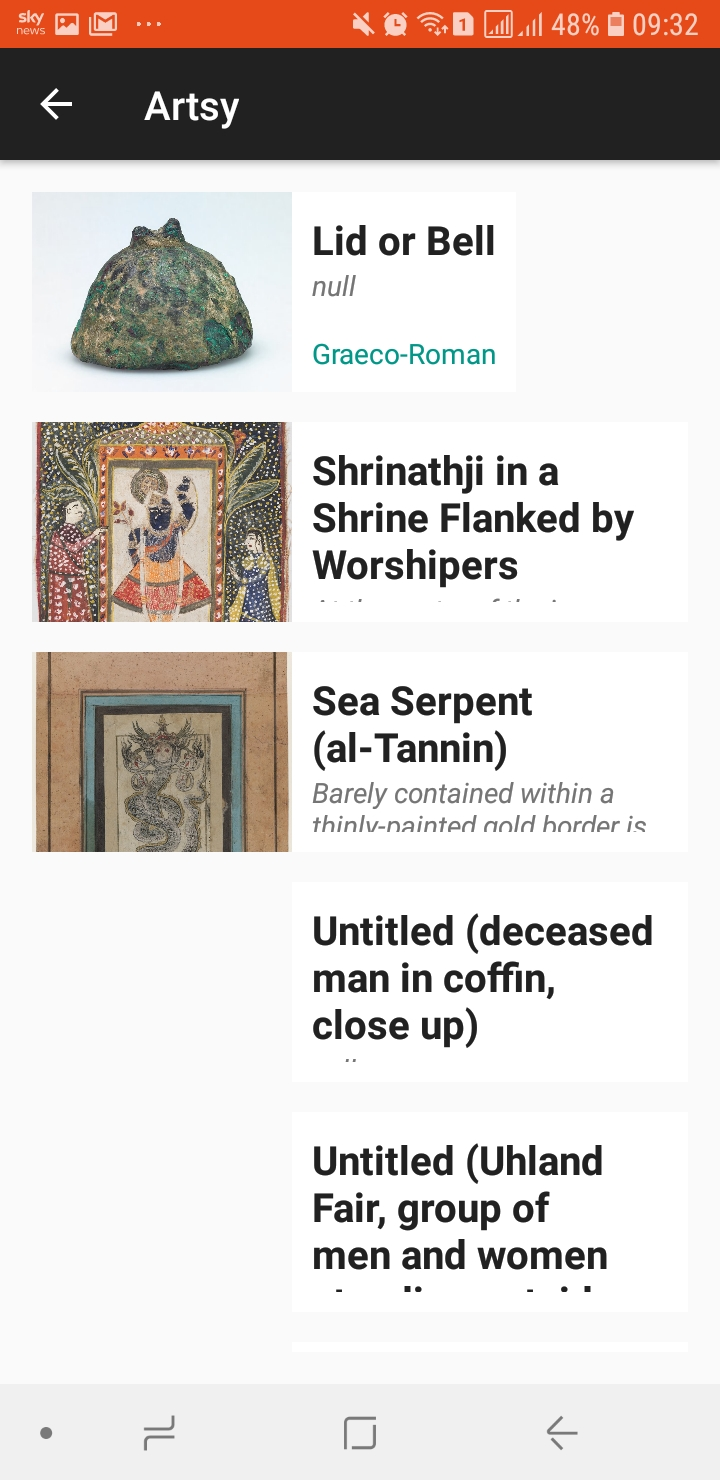
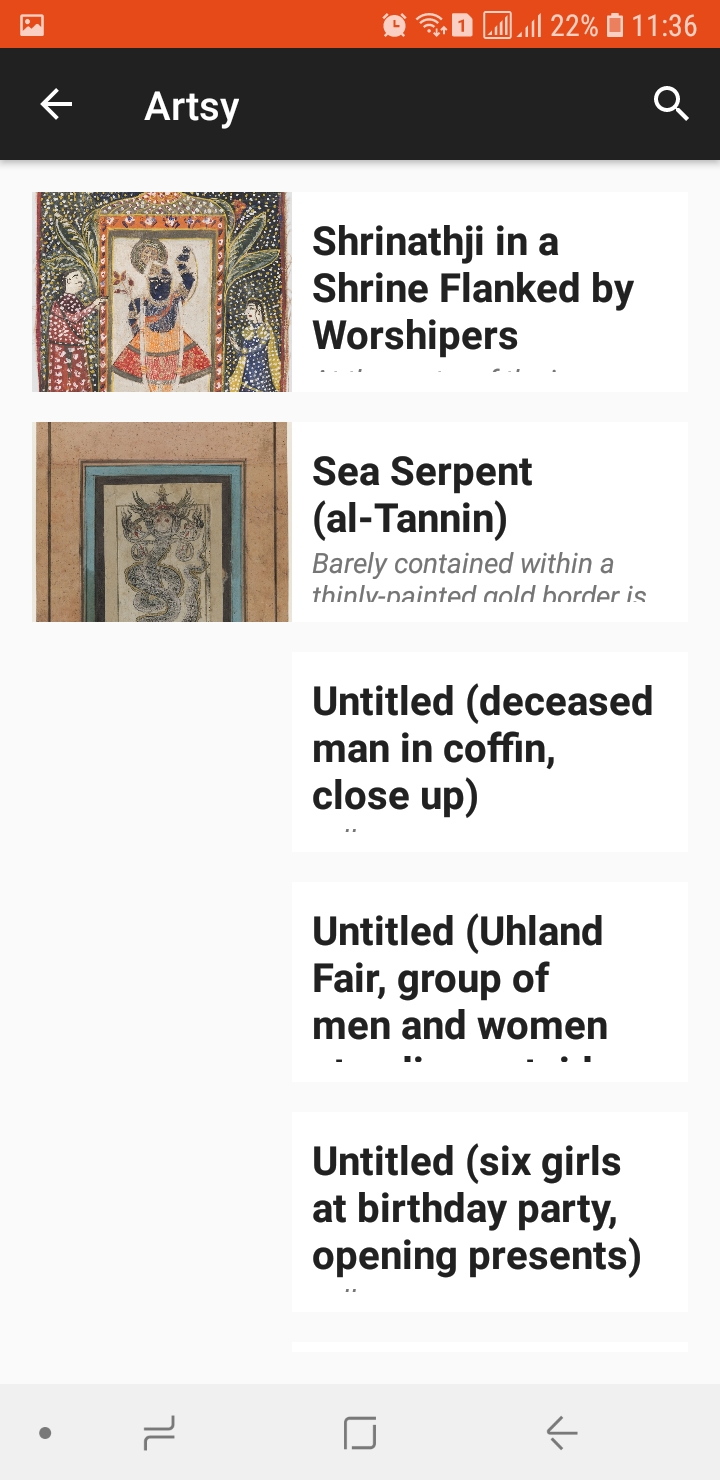
screenshot images to README.md

diff --git a/app/src/main/java/com/example/artsy/adapters/FirebaseArtViewHolder.java b/app/src/main/java/com/example/artsy/adapters/FirebaseArtViewHolder.java
@@ -1,0 +1,79 @@
+//package com.example.artsy.adapters;
+//
+//import android.content.Context;
+//import android.content.Intent;
+//import android.support.v7.widget.RecyclerView;
+//import android.view.View;
+//import android.widget.ImageView;
+//import android.widget.TextView;
+//
+//import com.example.artsy.Constants;
+//import com.example.artsy.R;
+//import com.example.artsy.models.Artsy;
+//import com.example.artsy.ui.ArtDetailActivity;
+//import com.google.firebase.database.DataSnapshot;
+//import com.google.firebase.database.DatabaseError;
+//import com.google.firebase.database.DatabaseReference;
+//import com.google.firebase.database.FirebaseDatabase;
+//import com.google.firebase.database.ValueEventListener;
+//import com.squareup.picasso.Picasso;
+//
+//import org.parceler.Parcels;
+//
+//import java.util.ArrayList;
+//
+//import butterknife.BindView;
+//
+//public class FirebaseArtViewHolder extends RecyclerView.ViewHolder implements View.OnClickListener {
+//    View mView;
+//    Context mContext;
+//
+//    public FirebaseArtViewHolder(View itemView) {
+//        super(itemView);
+//        mView = itemView;
+//        mContext = itemView.getContext();
+//        itemView.setOnClickListener(this);
+//    }
+//
+//    public void bindArtsy(mArtsies artsy) {
+//        ImageView artImageView = (ImageView) mView.findViewById(R.id.artImageView);
+//        TextView descriptionTextView = (TextView) mView.findViewById(R.id.artDescriptionTextView);
+//        TextView titleTextView = (TextView) mView.findViewById(R.id.titleTextView);
+//        TextView cultureTextView = (TextView) mView.findViewById(R.id.cultureTextView);
+//
+//
+//        Picasso.get().load(mArtsies.getPrimaryImageUrl()).into(mImageLabel);
+//
+//        descriptionTextView.setText(mArtsies.getDescription());
+//        titleTextView.setText(mArtsies.getTitle());
+//        cultureTextView.setText(mArtsies.getCulture());
+//            }
+//
+//    @Override
+//    public void onClick(View view) {
+//        final ArrayList<Artsy> mArtsies = new ArrayList<>();
+//        DatabaseReference ref = FirebaseDatabase.getInstance().getReference(Constants.FIREBASE_CHILD_ARTS);
+//        ref.addListenerForSingleValueEvent(new ValueEventListener() {
+//
+//            @Override
+//            public void onDataChange(DataSnapshot dataSnapshot) {
+//                for (DataSnapshot snapshot : dataSnapshot.getChildren()) {
+//                    mArtsies.add(snapshot.getValue(Artsy.class));
+//                }
+//
+//                int itemPosition = getLayoutPosition();
+//
+//                Intent intent = new Intent(mContext, ArtDetailActivity.class);
+//                intent.putExtra("position", itemPosition + "");
+//                intent.putExtra("restaurants", Parcels.wrap(mArtsies));
+//
+//                mContext.startActivity(intent);
+//            }
+//
+//            @Override
+//            public void onCancelled(DatabaseError databaseError) {
+//            }
+//        });
+//    }
+//}
+//}

diff --git a/app/src/main/java/com/example/artsy/services/ArtsyService.java b/app/src/main/java/com/example/artsy/services/ArtsyService.java
@@ -53,8 +53,14 @@ public class ArtsyService {
                     String creditLine = artJSON.getString("creditline");
                     String medium = artJSON.getString("medium");
 
-                    Artsy art = new Artsy(description, primaryImageUrl, culture, title, creditLine, medium);
-                    artsies.add(art);
+                    if (primaryImageUrl.equals("")) {
+                        String secondUrl = "https://encrypted-tbn0.gstatic.com/images?q=tbn:ANd9GcS7iK0y8rlPAziH4MckCK7sjQt2tU-yMABG6a-04b7Shtmlkf-1cw";
+                        Artsy art = new Artsy(description, secondUrl, culture, title, creditLine, medium);
+                        artsies.add(art);
+                    }else {
+                        Artsy art = new Artsy(description, primaryImageUrl, culture, title, creditLine, medium);
+                        artsies.add(art);
+                    }
 
                 }
 

diff --git a/app/src/main/java/com/example/artsy/ui/ArtDetailFragment.java b/app/src/main/java/com/example/artsy/ui/ArtDetailFragment.java
@@ -82,6 +82,6 @@ public class ArtDetailFragment extends Fragment implements View.OnClickListener{
             Toast.makeText(getContext(), "Saved", Toast.LENGTH_SHORT).show();
         }
     }
-    }
 
 }
+

diff --git a/README.md b/README.md
@@ -33,10 +33,10 @@ There are no known bugs in the application but if you encounter any please open 
 
 ## Screen Shots
 
-<img src="/READMEimages/artsyhome.jpg" width="20%" /> <img src="/READMEimages/login.jpg" width="20%" /> <img src="/READMEimages/all.jpg" width="20%" />
+<img src="/READMEimages/CreateAccount.jpg" width="20%" /> <img src="/READMEimages/Login.jpg" width="20%" /> <img src="/READMEimages/MainActivity.jpg" width="20%" />
 
 
-<img src="/READMEimages/one.jpg" width="20%" />
+<img src="/READMEimages/all.jpg" width="20%" /> <img src="/READMEimages/Single.jpg" width="20%" /> <img src="/READMEimages/Single2.jpg" width="20%" />
 
 
 
